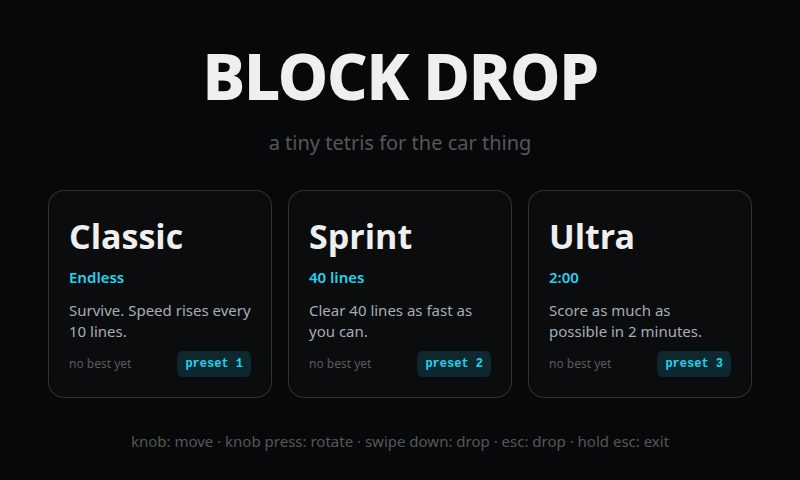
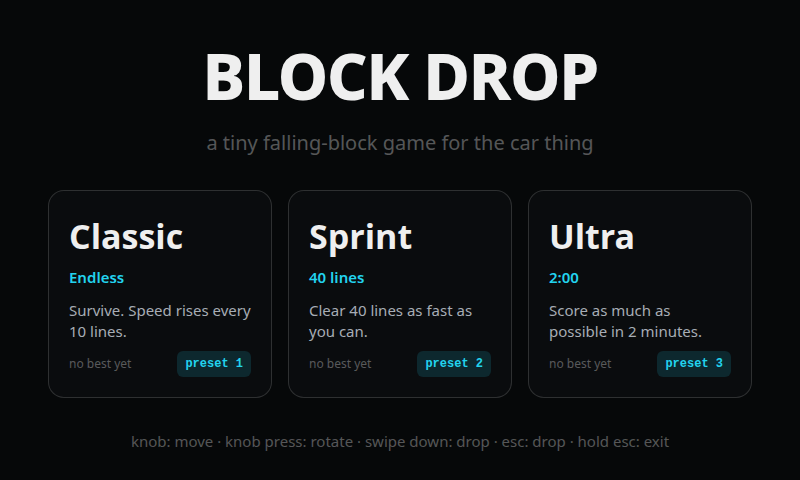
push via git data api

Changed region(s): [[0.25, 0.2812, 0.75, 0.3125]]

diff --git a/src/App.tsx b/src/App.tsx
@@ -277,8 +277,9 @@ export default function App(): React.JSX.Element {
         return;
       }
       if (e.key === 'Escape') {
-        e.preventDefault();
+        // on the menu, let the event through so the platform back button exits the app
         if (screen === 'game' && g) {
+          e.preventDefault();
           if (g.over || g.paused) { quitToMenu(); return; }
           if (e.repeat) return;
           // short press = hard drop, long press (hold 600ms) = exit to menu
@@ -350,6 +351,7 @@ export default function App(): React.JSX.Element {
     window.addEventListener('keyup', onKeyUp);
     window.addEventListener('wheel', onWheel, { passive: false });
     return () => {
+      if (escTimer.current !== null) { clearTimeout(escTimer.current); escTimer.current = null; }
       window.removeEventListener('keydown', onKey);
       window.removeEventListener('keyup', onKeyUp);
       window.removeEventListener('wheel', onWheel);
@@ -390,7 +392,7 @@ export default function App(): React.JSX.Element {
     return (
       <div className="flex h-screen w-screen flex-col items-center justify-center bg-screen font-body select-none">
         <div className="rise mb-1 font-display text-hero font-extrabold tracking-tight text-fg">BLOCK DROP</div>
-        <div className="mb-8 text-body text-dim">a tiny tetris for the car thing</div>
+        <div className="mb-8 text-body text-dim">a tiny falling-block game for the car thing</div>
         <div className="flex gap-4">
           {MODES.map((m, i) => {
             const best = bests[m.id];

diff --git a/src/tetris.ts b/src/tetris.ts
@@ -1,4 +1,4 @@
-// Block Drop engine: guideline-style tetris (7-bag, SRS kicks, lock delay).
+// Block Drop engine: guideline-style falling blocks (7-bag, SRS kicks, lock delay).
 // Pure logic, no DOM. Coordinates: x right, y down, board 10 wide x 22 tall
 // (top two rows are hidden spawn space).
 

diff --git a/README.md b/README.md
@@ -1,6 +1,6 @@
 # Block Drop
 
-A tiny Tetris-style falling-block game for the Spotify Car Thing, built for
+A tiny falling-block game for the Spotify Car Thing, built for
 [bridgething](https://bridgething.com). Three modes, knob-first controls, and
 big touch targets designed for the 800x480 screen.
 
